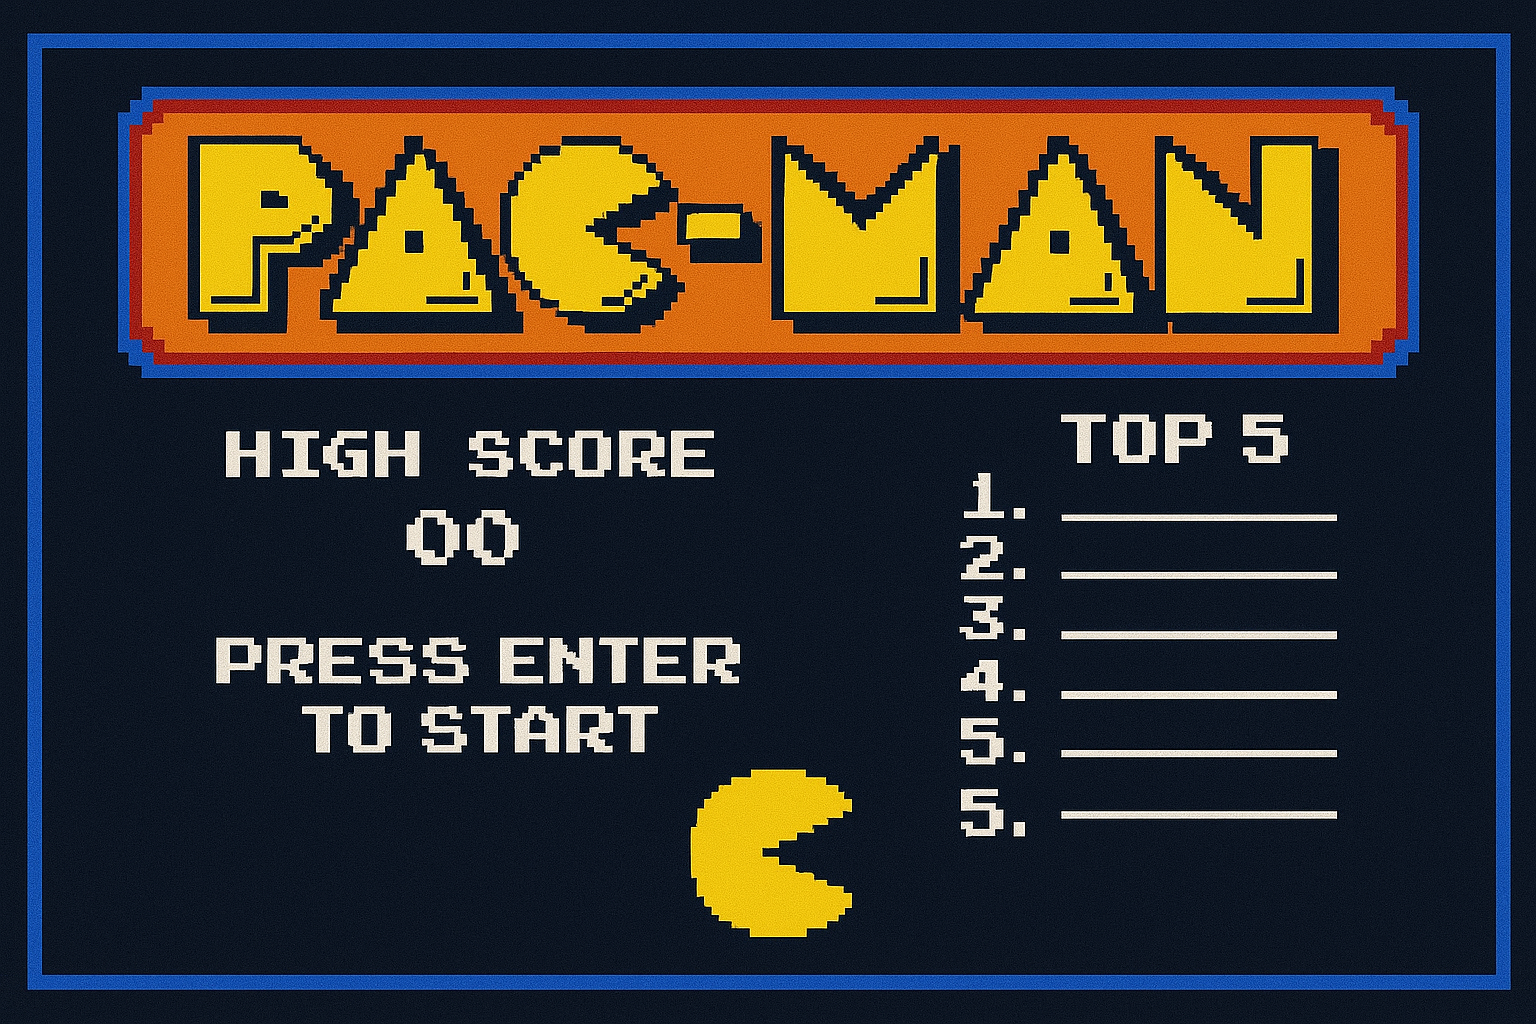
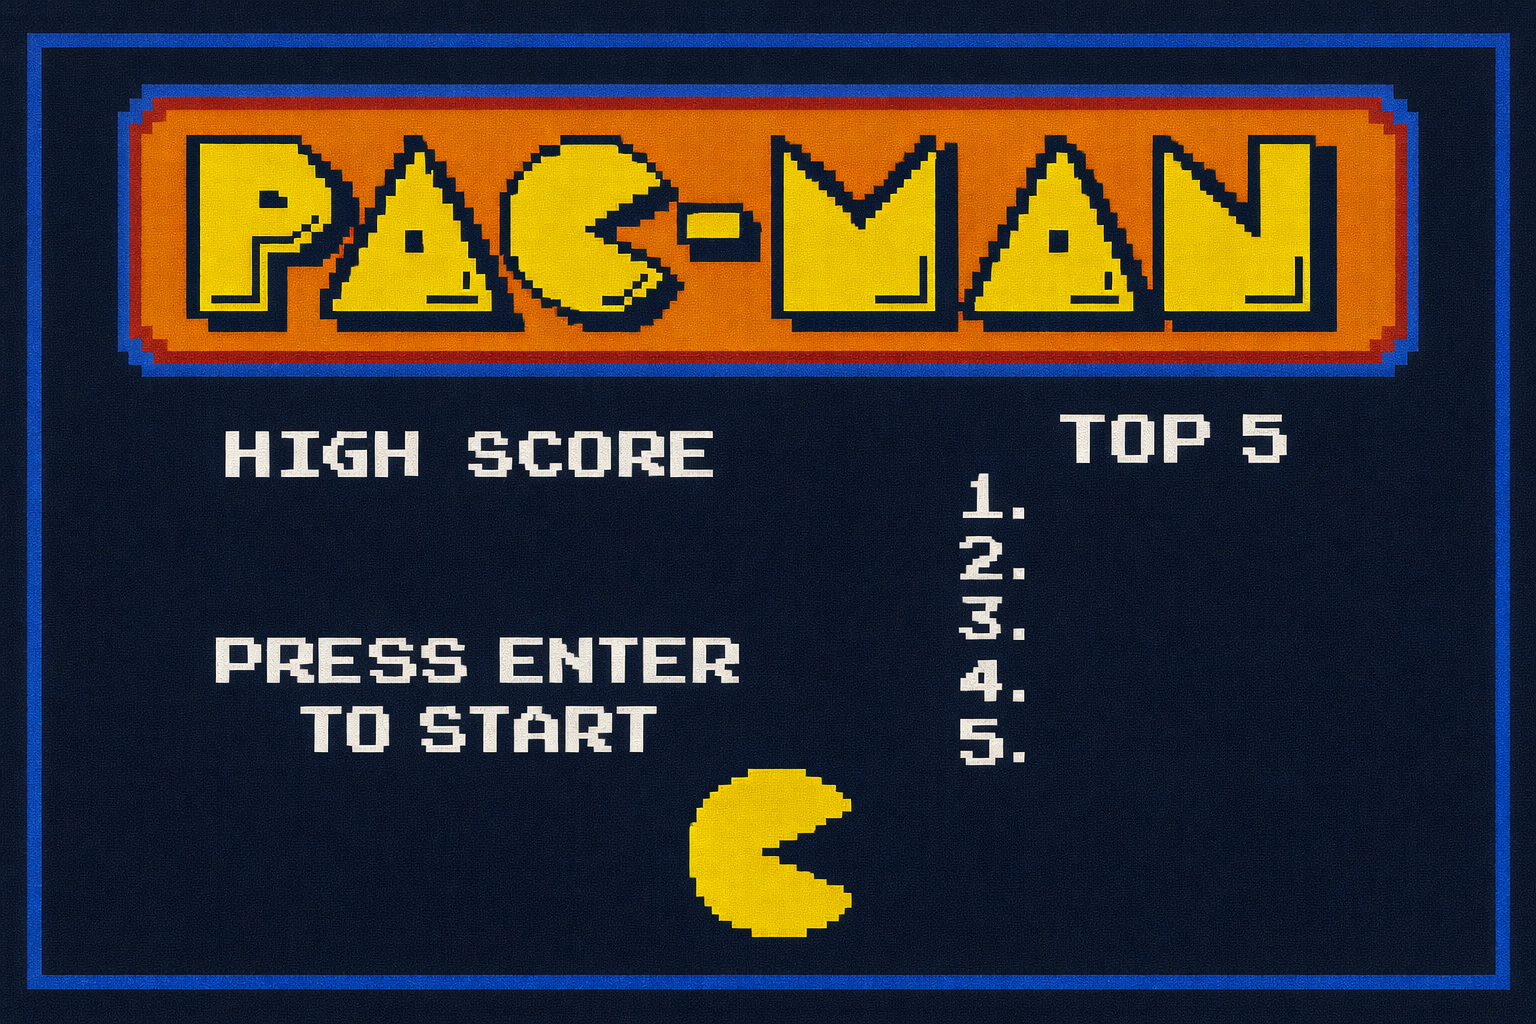
finalize menu with scores

diff --git a/src/states/MenuState.cpp b/src/states/MenuState.cpp
@@ -12,6 +12,7 @@ MenuState::MenuState(StateManager& stateManager, model::Score& playerScore) : St
     }
 
     backgroundSprite.setTexture(backgroundTexture);
+    util::TextureManager::loadScoreFont();
 }
 
 void MenuState::handleEvents(const sf::Event& event) {
@@ -23,8 +24,19 @@ void MenuState::handleEvents(const sf::Event& event) {
     }
 }
 void MenuState::update(const double deltaTime) {}
+static void centerOrigin(sf::Text& t) {
+    sf::FloatRect b = t.getLocalBounds();
+    t.setOrigin(b.left + b.width / 2.f, b.top + b.height / 2.f);
+}
+static sf::Vector2f bgPos(const sf::FloatRect& b, float nx, float ny) {
+    // nx, ny in [0..1] relative to background size
+    return {b.left + nx * b.width, b.top + ny * b.height};
+}
+
 void MenuState::render(sf::RenderWindow& window) {
-    // FULLSCREEN SCALE
+    window.clear(sf::Color::Black);
+
+    // fullscreen scale background
     sf::Vector2u textureSize = backgroundTexture.getSize();
     sf::Vector2u windowSize = window.getSize();
 
@@ -33,6 +45,46 @@ void MenuState::render(sf::RenderWindow& window) {
 
     backgroundSprite.setScale(scaleX, scaleY);
     backgroundSprite.setPosition(0.f, 0.f);
+
     window.draw(backgroundSprite);
+
+    // get bounds so we can position text relative to background
+    sf::FloatRect b = backgroundSprite.getGlobalBounds();
+
+    // scale font size with window size
+    unsigned int charSize = (unsigned int)(60.f * std::min(scaleX, scaleY));
+
+    const auto& scores = playerScore.getHighScores();
+    // display high score
+    sf::Text highScoreText(std::to_string(scores[0]), util::TextureManager::getScoreFont(), charSize);
+    highScoreText.setFillColor(sf::Color::White);
+    highScoreText.setPosition(bgPos(b, 330.f / textureSize.x, 500.f / textureSize.y));
+
+    // display top 5 scores
+    sf::Text score1(std::to_string(scores[0]), util::TextureManager::getScoreFont(), charSize);
+    sf::Text score2(std::to_string(scores[1]), util::TextureManager::getScoreFont(), charSize);
+    sf::Text score3(std::to_string(scores[2]), util::TextureManager::getScoreFont(), charSize);
+    sf::Text score4(std::to_string(scores[3]), util::TextureManager::getScoreFont(), charSize);
+    sf::Text score5(std::to_string(scores[4]), util::TextureManager::getScoreFont(), charSize);
+
+    for (auto* t : {&score1, &score2, &score3, &score4, &score5}) {
+        t->setFillColor(sf::Color::White);
+        centerOrigin(*t);
+    }
+
+    score1.setPosition(bgPos(b, 1200.f / textureSize.x, 500.f / textureSize.y));
+    score2.setPosition(bgPos(b, 1200.f / textureSize.x, 560.f / textureSize.y));
+    score3.setPosition(bgPos(b, 1200.f / textureSize.x, 620.f / textureSize.y));
+    score4.setPosition(bgPos(b, 1200.f / textureSize.x, 680.f / textureSize.y));
+    score5.setPosition(bgPos(b, 1200.f / textureSize.x, 740.f / textureSize.y));
+
+    window.draw(highScoreText);
+    window.draw(score1);
+    window.draw(score2);
+    window.draw(score3);
+    window.draw(score4);
+    window.draw(score5);
+
+    window.display();
 }
 } // namespace view::state

diff --git a/src/model/Score.cpp b/src/model/Score.cpp
@@ -135,3 +135,19 @@ bool model::Score::isHighScore() const {
 
     return m_score >= maxScore;
 }
+std::vector<int> model::Score::getHighScores() const {
+    std::string filename = "../config/HighScores.txt";
+
+    int highScore = 0;
+    std::ifstream inFile(filename);
+    if (!inFile.is_open()) {
+        std::cerr << "Unable to open HighScores.txt for reading." << std::endl;
+        return {};
+    }
+    std::vector<int> scores;
+    int s;
+    while (inFile >> s) {
+        scores.push_back(s);
+    }
+    return std::sort(std::begin(scores), std::end(scores), std::greater<int>()), scores;
+}

diff --git a/src/model/Score.h b/src/model/Score.h
@@ -50,6 +50,8 @@ public:
     void reset();
     /** check if current score is a high score */
     [[nodiscard]] bool isHighScore() const;
+    /** get high scores from file */
+    [[nodiscard]] std::vector<int> getHighScores() const;
 };
 } // namespace model
 

diff --git a/README.md b/README.md
@@ -2,9 +2,7 @@ To do
 
 - delay at next level or dead
 - start bug ghosts exit en random spawn
-- menu screen finalize
 - make work for all frame rates
-- pause screen
 - doxygen
 - readme file
 
